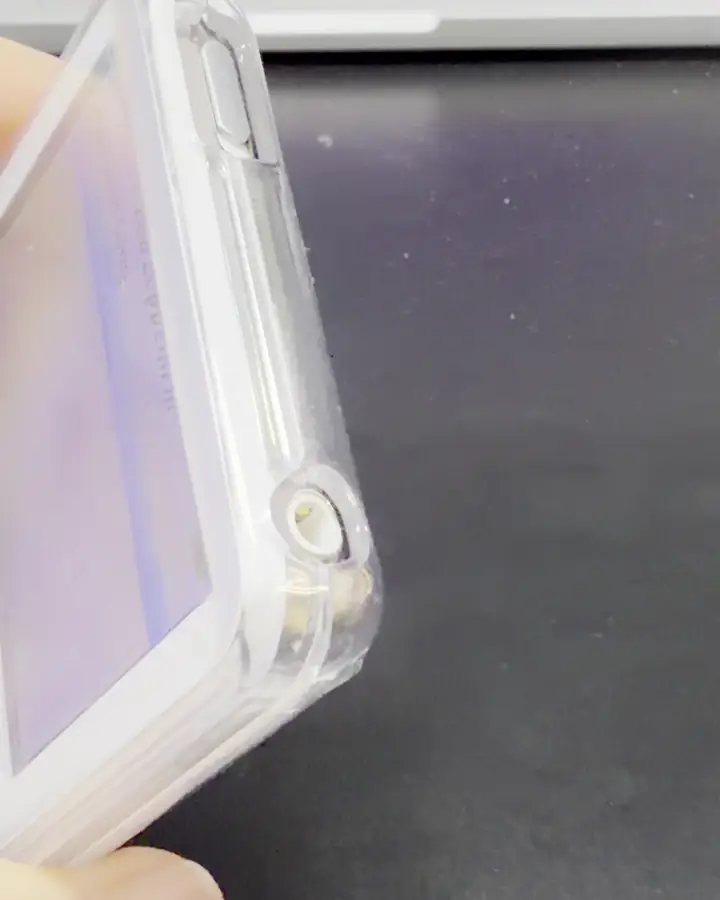
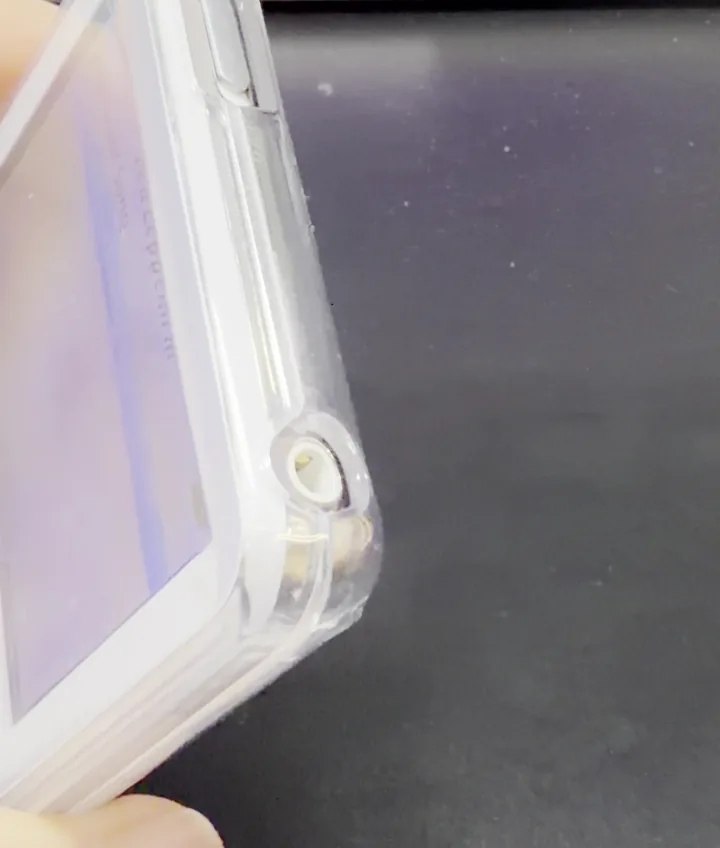
64GB 랜딩 비율 수정(360° 가로 28% 늘어남) + 장면 04 검은 띠 제거 — preview_v4_3_1 공개용 사본
360 장면 이미지·캔버스가 폭 128%·높이 100% 로 그려지던 모바일 규칙을 폭·높이 같은 비율로 고쳤다. 장면 04 위 검은 여백 56px 제거, 클립 프레임 위 114줄 재추출(720x848).

diff --git a/index.html b/index.html
@@ -221,6 +221,15 @@
 @media (prefers-reduced-motion:reduce){
  .pp-landing *,.pp-landing *::before,.pp-landing *::after{transition-duration:.01ms!important;animation:none!important}
 }
+/* v4.3.1 수정 — pp_v43.css 뒤에 붙는다(v4.3 CSS 는 그대로).
+   ① 360 장면(S1) 비율: v4.3 의 @media(max-width:768px) 규칙이 이미지·캔버스에 width:128% 만 주고 height 는 위 기본 규칙의 100% 를 그대로 둬서
+      정사각 프레임(720x720)이 가로로만 28% 늘어나 보였다(폭 375 에서 480x375). 폭·높이를 같이 120% 로 키워 비율을 지킨다. 위치는 가운데가 아니라 아래를 맞춘다(위 -16.8%): 프레임 아래 11% 는 바닥 반사가 흰색으로 사라지는 구간이라 가운데 확대(위아래 11% 잘림)로 자르면 회색 가장자리가 흰 바탕에 선처럼 남는다. 제품 윗끝은 프레임 18% 지점이라 위 14% 잘림은 안전.
+      object-fit:contain 은 어떤 상자 비율이어도 늘어나지 않게 하는 안전장치. */
+.pp-landing .pp-s1-wrap{width:100%}   /* 이미지가 상자 안에서 절대 위치가 되면 안쪽 너비가 0 이라 flex 로 줄어든 래퍼가 44px 로 접힌다 — 래퍼 너비를 고정 */
+.pp-landing [data-pp-s1] img,.pp-landing [data-pp-s1] canvas{object-fit:contain}
+@media (max-width:768px){.pp-landing [data-pp-s1] img,.pp-landing [data-pp-s1] canvas{position:absolute;left:-10%;top:-16.8%;width:120%;height:120%;max-width:none;margin:0}}
+/* ② 장면 04 위쪽 검은 띠: .pp-photo{padding-top:56px;background:#000} 가 영상 타일 위에 순흑 56px 를 남겼다 */
+.pp-landing .pp-photo{padding-top:0}
 </style></head>
 <body>
 <div class="pp-landing">
@@ -258,7 +267,7 @@
 </div>
 </section>
 <section id="pp-c3" data-pp-scene="c3" data-pp-act="1" data-pp-kind="mood">
-<figure class="pp-photo"><div class="pp-vtile" data-pp-seqclip data-pp-base="assets/c3/seq/p_" data-pp-count="22" data-pp-ext=".webp" data-pp-fps="12" data-pp-w="720" data-pp-h="900" style="--pp-w:720;--pp-h:900"><img src="assets/c3/song.webp" alt="아이팟에 이어폰 잭을 꽂는 영상" width="720" height="900" loading="lazy" decoding="async"><canvas aria-hidden="true"></canvas></div>
+<figure class="pp-photo"><div class="pp-vtile" data-pp-seqclip data-pp-base="assets/c3/seq/p_" data-pp-count="22" data-pp-ext=".webp" data-pp-fps="12" data-pp-w="720" data-pp-h="848" style="--pp-w:720;--pp-h:848"><img src="assets/c3/song.webp" alt="아이팟에 이어폰 잭을 꽂는 영상" width="720" height="848" loading="lazy" decoding="async"><canvas aria-hidden="true"></canvas></div>
 <div class="pp-photo-txt"><p data-pp-split="focus">곡은 직접 담습니다.<br>줄은 엉킵니다.<br>알림은 안 옵니다.<br>불편해서 좋습니다.</p></div>
 <div class="pp-photo-cta"><a class="pp-link" href="#pp-buy-area" data-pp-cta>네이버에서 구입하기</a></div>
 </figure>
